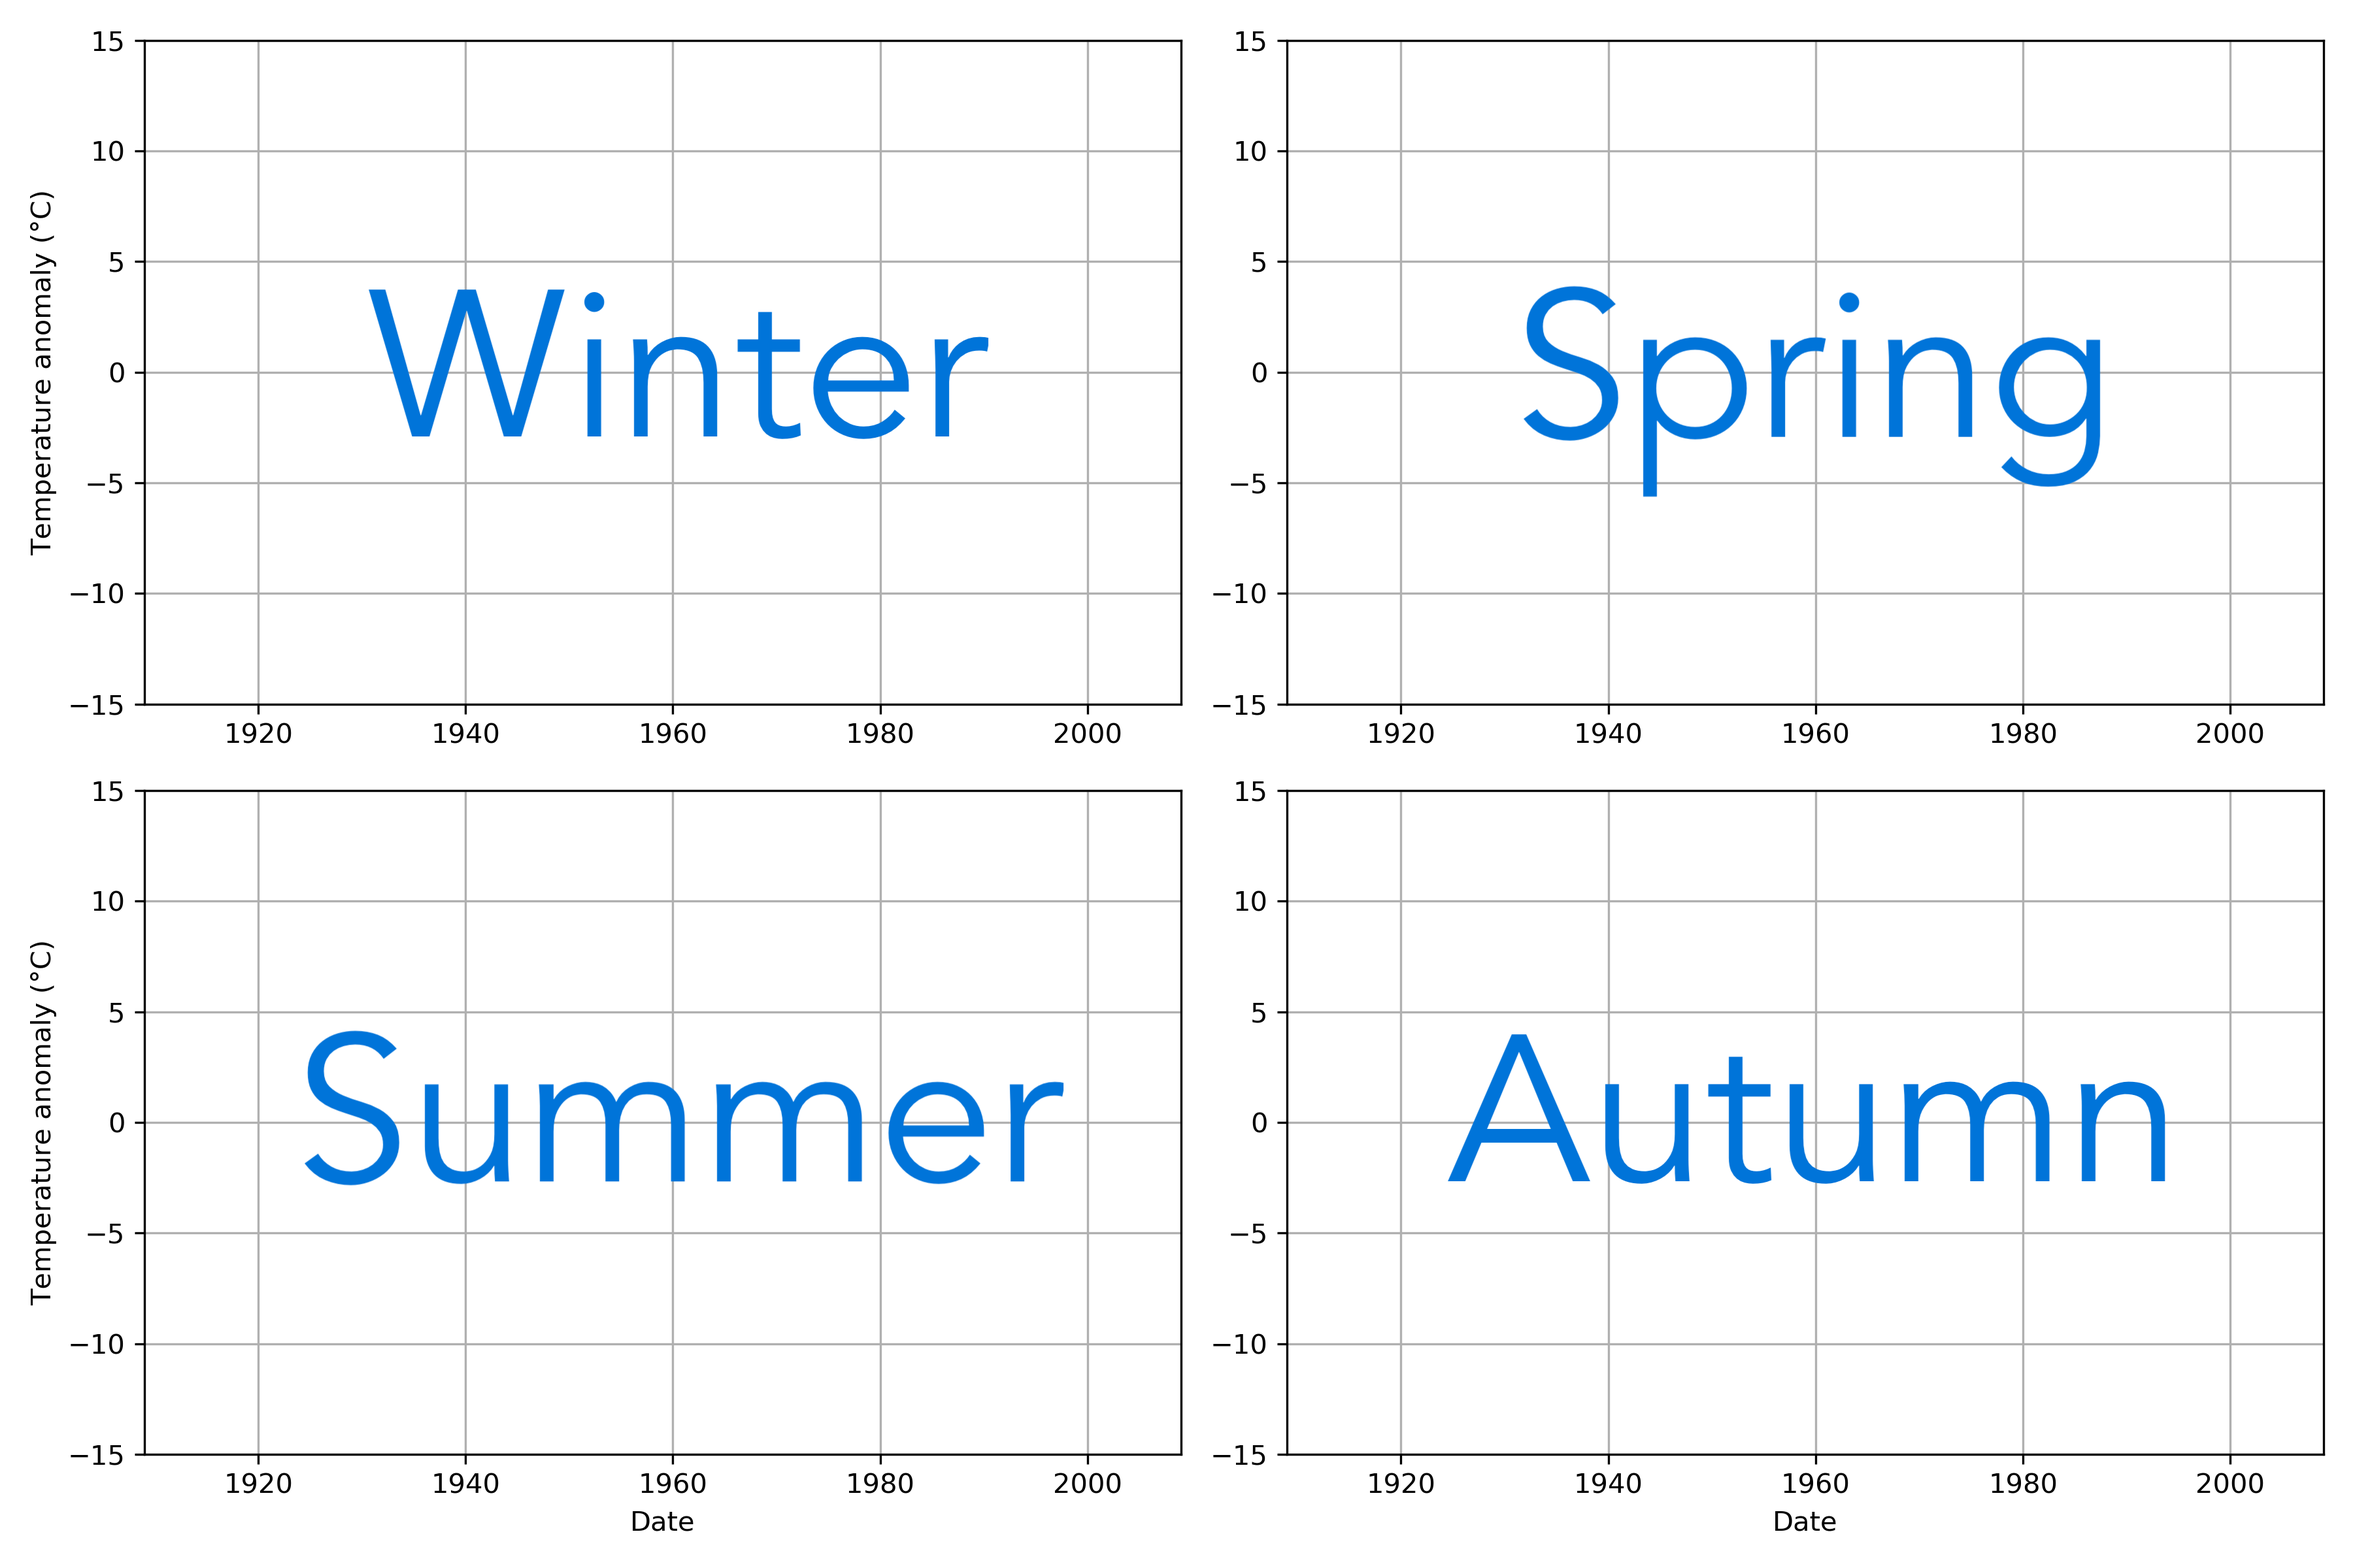
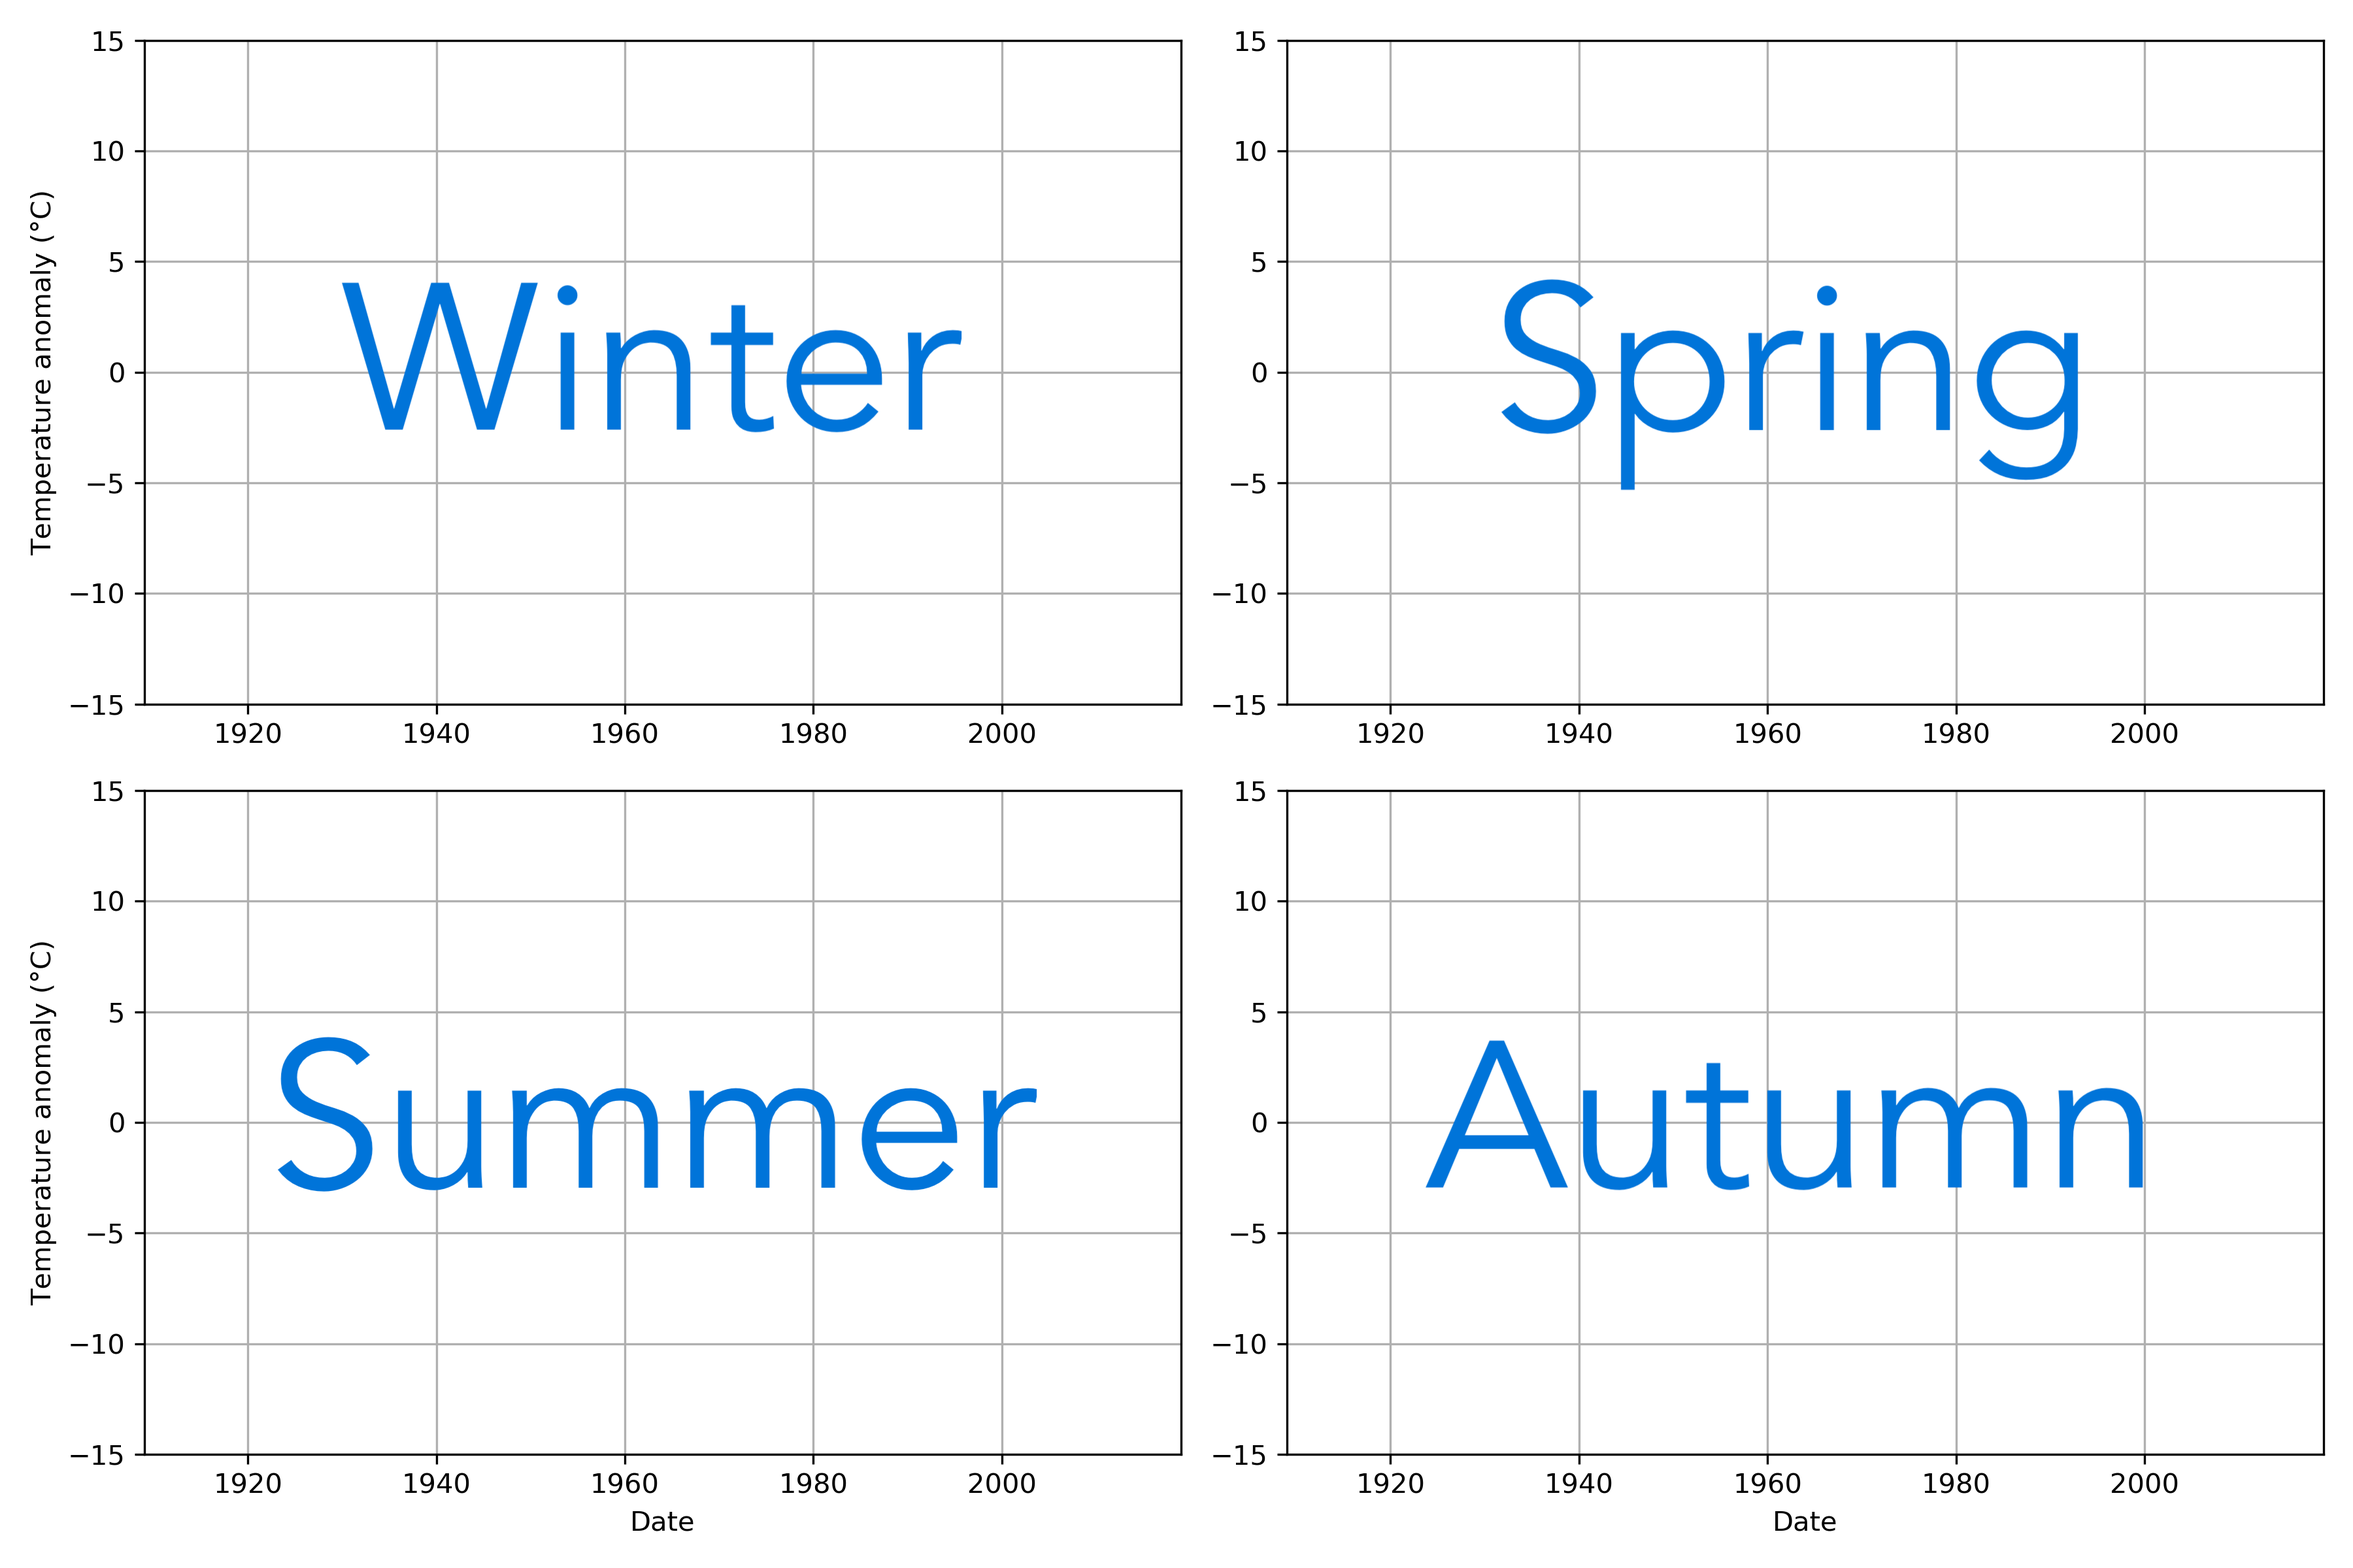
Update instructions

diff --git a/README.md b/README.md
@@ -2,9 +2,11 @@
 
 The final exercise in the Geo-Python course involves calculating and plotting seasonal weather anomalies to see how temperatures have changed in different seasons over the past 100+ years. We will be using weather data from the Sodankylä weather station in northern Finland.
 
+As with the earlier exercises in the course you should save your modifications (regularly) in your GitHub repository.
+
 ## The goal
 
-Your task is to create a four-panel plot showing the seasonal temperature anomalies for winter, spring, summer, and autumn for the years 1909-2009. A template for how the final plot should look can be found below.
+Your task is to create a four-panel plot showing the seasonal temperature anomalies for winter, spring, summer, and autumn for the years 1909-2019. A template for how the final plot should look can be found below.
 
 ![Seasonal anomaly plot](img/axes.png)
 
@@ -31,11 +33,11 @@ Missing data are identified with `-9999` and more information about the data can
 
 ### Important note about the data!
 
-You will notice that there are many missing values in the `TAVG` column. In order to supplement the values that are present in that column, you should calculate another estimate of the average daily temperature by averaging the `TMAX` and `TMIN` values. For days where the `TAVG` values are missing, you can use your estimated average daily temperature to fill in some of the missing values. You may want to do this in a separate column.
+You will notice that there are many missing values in the `TAVG` column. For days where the `TAVG` values are missing, you can calculate an estimate of the average daily temperature by averaging the `TMAX` and `TMIN` values. You may want to do this in a new column. **Note** don't replace the existing `TAVG` values with your estimates!
 
 ## What to do
 
-In contrast to earlier exercises in the course, in this exercise we are providing only general instructions of how to complete the exercise. This is to help us see how much you have learned about programming in Python and to see how you would approach interacting with data using your new skills.
+In contrast to earlier exercises in the course, in this exercise we are providing an empty notebook and only general instructions of how to complete the exercise. This is to help us see how much you have learned about programming in Python and to see how you would approach interacting with data using your new skills.
 
 For this exercise you should:
 
